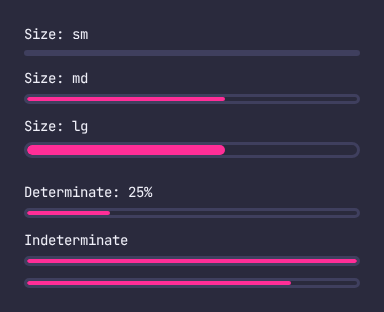
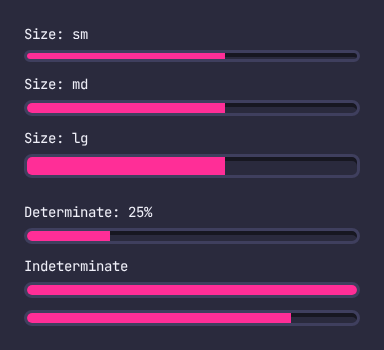
fix(ui): square AtProgressBar corners, recess the track, fix invisible sm size
Rounded-full pill tips didn't match the neo-brutal square/recessed vibe used
elsewhere (Card, Switch). sm's 6px height was fully consumed by the 3px
border, leaving no visible fill.

Claude-Session: https://claude.ai/code/session_01KkWN6UaJtDAE3d1tQNyjsZ

diff --git a/packages/ui/src/components/ProgressBar/AtProgressBar.vue b/packages/ui/src/components/ProgressBar/AtProgressBar.vue
@@ -39,15 +39,19 @@ const percent = computed(() => {
   return Math.min(100, Math.max(0, (value / props.max) * 100))
 })
 
+// Border is a fixed 3px regardless of size (Input/Card convention), so each
+// rung needs enough total height to leave a visible fill strip inside it.
 const track: Record<Size, string> = {
-  sm: 'h-1.5',
-  md: 'h-2.5',
-  lg: 'h-4',
+  sm: 'h-3',
+  md: 'h-4',
+  lg: 'h-6',
 }
 
+// Square corners (rounded-md, matching Card/Input), recessed into a shadow-low
+// well like Switch's track -- the empty portion reads as a carved-out channel.
 const trackClasses = computed(
   () =>
-    `relative w-full overflow-hidden rounded-full bg-surface-default border-[3px] border-solid border-border-default ${track[props.size]}`,
+    `relative w-full overflow-hidden rounded-md border-[3px] border-solid border-border-default bg-surface-default shadow-low ${track[props.size]}`,
 )
 
 // Indeterminate: no known value, so the fill can't track progress -- a full-width
@@ -55,8 +59,8 @@ const trackClasses = computed(
 // uses) signals "busy" without implying a false position.
 const fillClasses = computed(() =>
   indeterminate.value
-    ? 'h-full w-full rounded-full bg-primary-default animate-pulse motion-reduce:animate-none'
-    : 'h-full rounded-full bg-primary-default transition-[width] duration-[120ms] ease-[ease]',
+    ? 'h-full w-full bg-primary-default animate-pulse motion-reduce:animate-none'
+    : 'h-full bg-primary-default transition-[width] duration-[120ms] ease-[ease]',
 )
 </script>
 

diff --git a/packages/ui/src/components/ProgressBar/AtProgressBar.test.ts b/packages/ui/src/components/ProgressBar/AtProgressBar.test.ts
@@ -52,9 +52,9 @@ test('forwards ariaLabel when no visible label is rendered', () => {
 
 // Size is a track-height variant; each size renders a distinct height class.
 test.each([
-  ['sm', 'h-1.5'],
-  ['md', 'h-2.5'],
-  ['lg', 'h-4'],
+  ['sm', 'h-3'],
+  ['md', 'h-4'],
+  ['lg', 'h-6'],
 ] as const)('size=%s applies the %s track height', (size, expectedClass) => {
   render(ProgressBar, { props: { value: 50, size } })
   expect(screen.getByRole('progressbar').className).toContain(expectedClass)